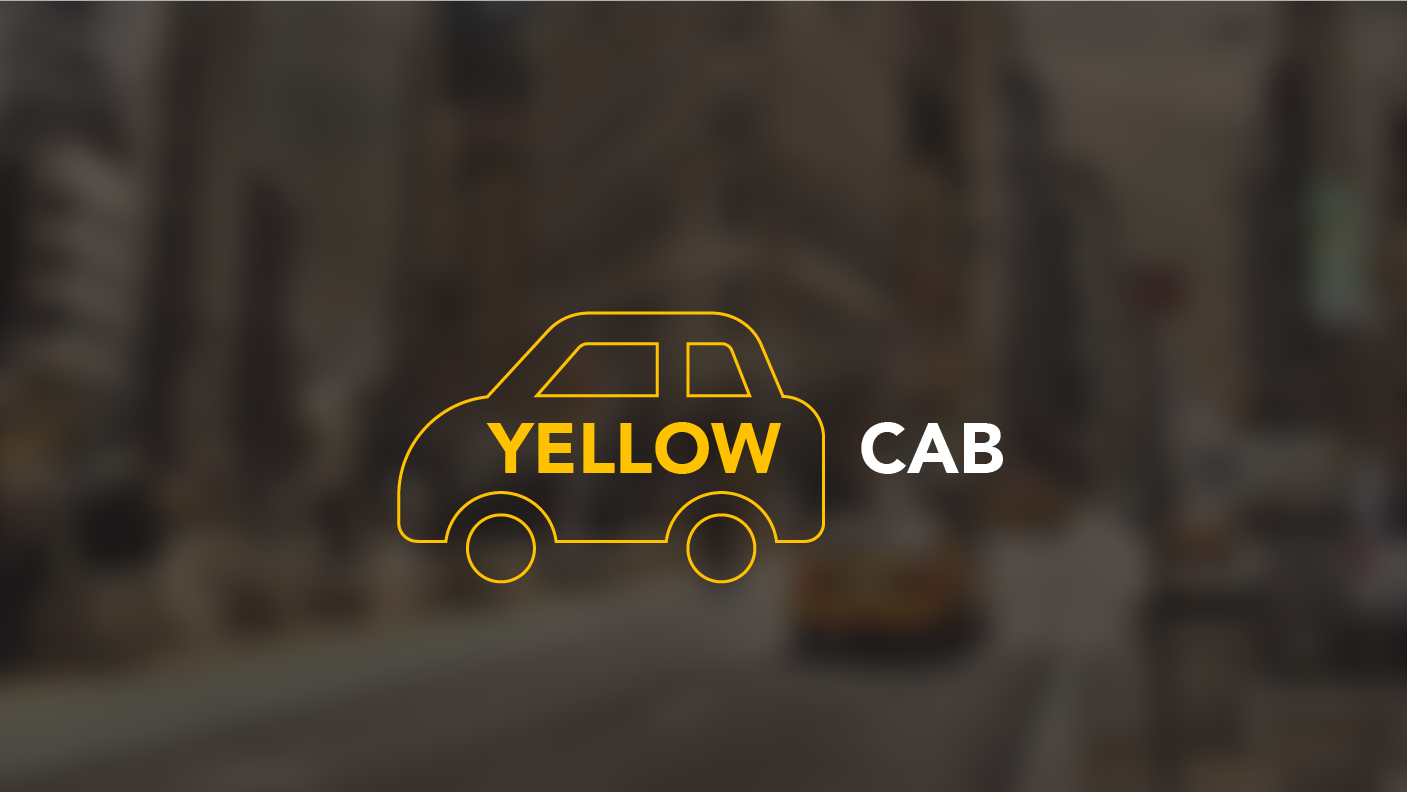
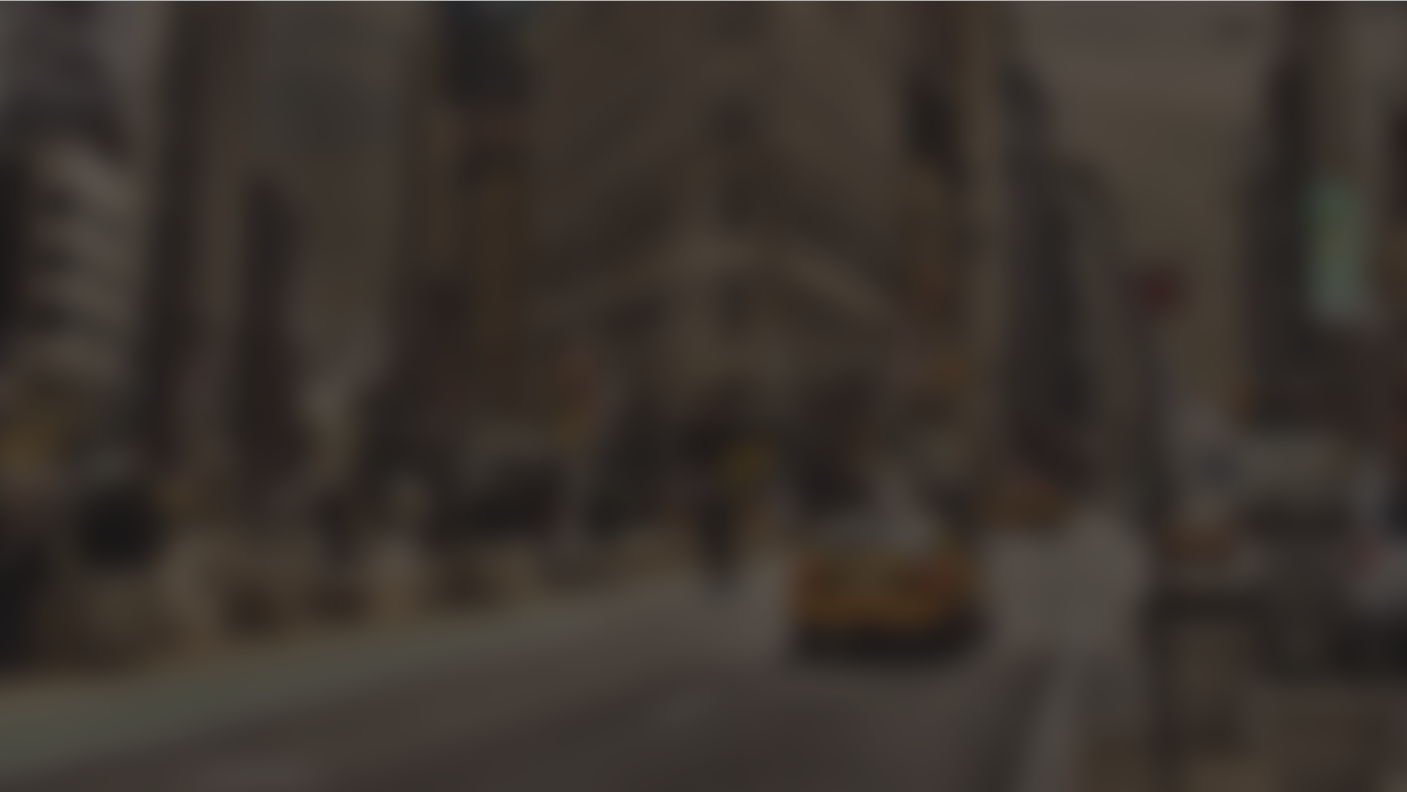
Yellow Cab updates

diff --git a/yellowcab/index.html b/yellowcab/index.html
@@ -9,7 +9,7 @@
     <meta name="description" content="">
     <meta name="author" content="">
 
-    <title>Yellow Cab</title>
+     <title>Yellow Cab</title>
 
     <!-- Bootstrap Core CSS -->
     <link href="css/bootstrap.min.css" rel="stylesheet">
@@ -47,7 +47,7 @@
                     <span class="icon-bar"></span>
                     <span class="icon-bar"></span>
                 </button>
-                <a class="navbar-brand page-scroll" href="#page-top">Yellow Cab</a>
+                <a class="navbar-brand page-scroll" href="#page-top"><img src="img/cab-logosmall.png" class="scaffold-tagline"></a>
             </div>
 
             <!-- Collect the nav links, forms, and other content for toggling -->
@@ -79,7 +79,7 @@
     <header>
         <div class="container">
             <div class="intro-text">
-            	<div class="intro-heading"></div>
+            	<div class="intro-heading"><img src="img/cab-logobig.png" class="scaffold-logo"></div>
             </div>
         </div>
     </header>
@@ -103,18 +103,18 @@
             <div class="row text-center">
                 <div class="col-md-4">
                     <img src="img/contact.png" class="port-pic">
-                    <h4 class="service-heading">Apply for Jobs</h4>
-                    <p class="text-muted">Temp workers can easily apply for jobs that fit their skills</p>
+                    <h4 class="service-heading">Hail</h4>
+                    <p class="text-muted">Hail a solo or shared rides</p>
                 </div>
                 <div class="col-md-4">
                 	<img src="img/goal.png" class="port-pic">
-                    <h4 class="service-heading">Post a Job Listing</h4>
-                    <p class="text-muted">Local employers can easily find workers they need to complete a temporary job</p>
+                    <h4 class="service-heading">Schedule</h4>
+                    <p class="text-muted">Schedule rides for later on</p>
                 </div>
                 <div class="col-md-4">
                 	<img src="img/notification.png" class="port-pic">
-                    <h4 class="service-heading">Review Work Experience</h4>
-                    <p class="text-muted">Both workers and employers can review each other to ensure that both parties are held accountable</p>
+                    <h4 class="service-heading">Favorite</h4>
+                    <p class="text-muted">Favorite your </p>
                 </div>
             </div>
         </div>

diff --git a/scaffold/index.html b/scaffold/index.html
@@ -105,17 +105,17 @@
             </p>
             <div class="row text-center">
                 <div class="col-md-4">
-                    <img src="img/contact.png" class="port-pic">
+                    <img src="img/scaffold-mockup1.png" class="port-pic">
                     <h4 class="service-heading">Apply for Jobs</h4>
                     <p class="text-muted">Temp workers can easily apply for jobs that fit their skills</p>
                 </div>
                 <div class="col-md-4">
-                	<img src="img/goal.png" class="port-pic">
+                	<img src="img/scaffold-mockup2.png" class="port-pic">
                     <h4 class="service-heading">Post a Job Listing</h4>
                     <p class="text-muted">Local employers can easily find workers they need to complete a temporary job</p>
                 </div>
                 <div class="col-md-4">
-                	<img src="img/notification.png" class="port-pic">
+                	<img src="img/scaffold-mockup3.png" class="port-pic">
                     <h4 class="service-heading">Review Work Experience</h4>
                     <p class="text-muted">Both workers and employers can review each other to ensure that both parties are held accountable</p>
                 </div>

diff --git a/scaffold/css/agency.css b/scaffold/css/agency.css
@@ -106,6 +106,9 @@ iframe {
     margin: 0 auto;
     height: 350px;
     padding-bottom: 20px;
+    border-style: solid;
+    border-width: .5px;
+    border-color: #000000;
 }
 
 .img-centered {
